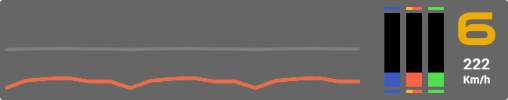
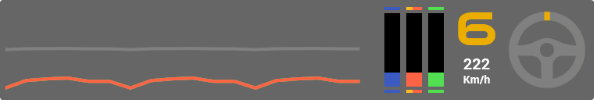
Added Steering to Inputs Telemetry overlay

Changed region(s): [[0.0, 0.06, 1.0, 0.9], [0.6201, 0.9, 0.8858, 0.93]]

diff --git a/Plugin/SettingsControl.xaml b/Plugin/SettingsControl.xaml
@@ -92,14 +92,14 @@
                             ToolTip="Show the steering input trace on the chart" 
                             HorizontalAlignment="Left" Margin="0,10,4,4"
                             IsChecked="{Binding Plugin.Modules[Telemetry].Settings.SteeringTraceVisible, Mode=TwoWay, UpdateSourceTrigger=PropertyChanged}">
-                            Show Steering Trace
+                            Steering Trace
                         </styles:SHToggleCheckbox>
 
                         <styles:SHToggleCheckbox 
                             ToolTip="Show the handbrake input trace on the chart" 
                             HorizontalAlignment="Left" Margin="0,10,4,4"
                             IsChecked="{Binding Plugin.Modules[Telemetry].Settings.HandbrakeTraceVisible, Mode=TwoWay, UpdateSourceTrigger=PropertyChanged}">
-                            Show Handbrake Trace
+                            Handbrake Trace
                         </styles:SHToggleCheckbox>
 
                         <ui:TitledSlider Title="Trace Chart Width" Maximum="500" Minimum="100" Value="{Binding Plugin.Modules[Telemetry].Settings.TracesWidth, Mode=TwoWay, UpdateSourceTrigger=PropertyChanged}" />
@@ -108,7 +108,7 @@
                             ToolTip="Show a bar graph for each pedal input" 
                             HorizontalAlignment="Left" Margin="0,0,4,4"
                             IsChecked="{Binding Plugin.Modules[Telemetry].Settings.PedalsVisible, Mode=TwoWay, UpdateSourceTrigger=PropertyChanged}">
-                            Show Pedal Inputs
+                            Show Pedals
                         </styles:SHToggleCheckbox>
 
                         <styles:SHToggleCheckbox 

diff --git a/Plugin/Modules/Telemetry.cs b/Plugin/Modules/Telemetry.cs
@@ -19,7 +19,6 @@
 using GameReaderCommon;
 using SimHub.Plugins;
 using System.ComponentModel;
-using System.Drawing.Text;
 
 namespace benofficial2.Plugin
 {
@@ -157,9 +156,9 @@ namespace benofficial2.Plugin
         private const int _tracesWidth = 500;
         private const int _tracesLeft = 17;
         private const int _pedalsLeft = 492;
-        private const int _steeringLeft = 0;
+        private const int _steeringLeft = 650;
         private const int _gearAndSpeedLeft = 573;
-        private const int _backgroundWidth = 650;
+        private const int _backgroundWidth = 760;
 
         public TelemetrySettings Settings { get; set; }
 
@@ -209,12 +208,19 @@ namespace benofficial2.Plugin
             int gearAndSpeedOffset = 0;
             if (!Settings.GearAndSpeedVisible)
             {
-                gearAndSpeedOffset = -(_backgroundWidth - _gearAndSpeedLeft);
+                gearAndSpeedOffset = -(_steeringLeft - _gearAndSpeedLeft);
+            }
+
+            int steeringOffset = 0;
+            if (!Settings.SteeringVisible)
+            {
+                steeringOffset = -(_backgroundWidth - _steeringLeft);
             }
 
             PedalsLeft = _pedalsLeft + tracesOffset;
             GearAndSpeedLeft = _gearAndSpeedLeft + tracesOffset + pedalsOffset;
-            BackgroundWidth = _backgroundWidth + tracesOffset + pedalsOffset + gearAndSpeedOffset;
+            SteeringLeft = _steeringLeft + tracesOffset + pedalsOffset + gearAndSpeedOffset;
+            BackgroundWidth = _backgroundWidth + tracesOffset + pedalsOffset + gearAndSpeedOffset + steeringOffset;
         }
 
         public void End(PluginManager pluginManager, benofficial2 plugin)
